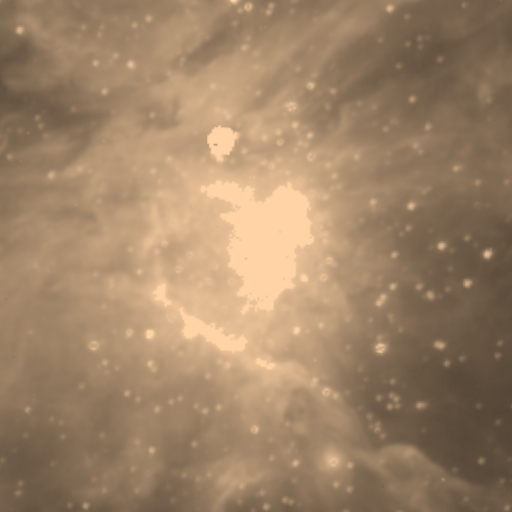
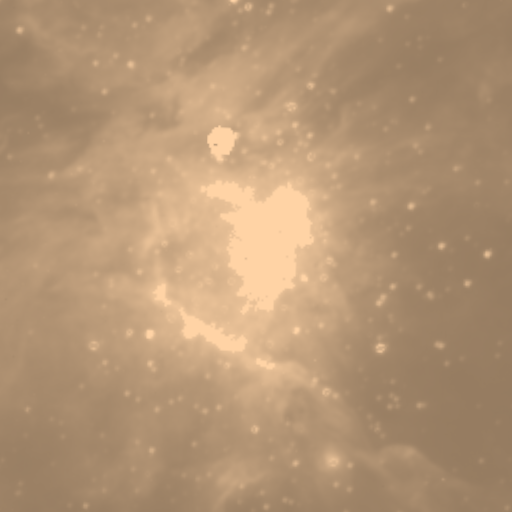
fix: fondo menos granulado (intervalo -2σ) y menú Exportar sin cortes

diff --git a/frontend/src/components/ReportPanel.jsx b/frontend/src/components/ReportPanel.jsx
@@ -234,7 +234,7 @@ function MenuExportar({ deshabilitado }) {
             animate={{ opacity: 1, y: 0, scale: 1 }}
             exit={{ opacity: 0, y: -4, scale: 0.96 }}
             transition={{ duration: 0.12 }}
-            className="absolute right-0 top-full z-20 mt-1.5 flex w-28 flex-col overflow-hidden rounded-lg border border-white/10 bg-space-900/95 py-1 shadow-xl backdrop-blur"
+            className="absolute right-0 top-full z-20 mt-1.5 flex w-32 flex-col overflow-hidden rounded-lg border border-white/10 bg-space-900/95 py-1 shadow-xl backdrop-blur"
           >
             {[
               ['csv', 'CSV (.csv)'],
@@ -245,7 +245,7 @@ function MenuExportar({ deshabilitado }) {
                 type="button"
                 role="menuitem"
                 onClick={() => descargar(formato)}
-                className="px-3 py-1.5 text-left font-mono text-xs text-slate-300 hover:bg-cyan-400/10 hover:text-cyan-100"
+                className="whitespace-nowrap px-3 py-1.5 text-left font-mono text-xs text-slate-300 hover:bg-cyan-400/10 hover:text-cyan-100"
               >
                 {etiqueta}
               </button>

diff --git a/scripts/fetch_irsa_samples.py b/scripts/fetch_irsa_samples.py
@@ -288,7 +288,7 @@ def procesar_region(rid, nombre, designacion, respaldo, presupuesto) -> dict:
         _, _, sigma = sigma_clipped_stats(np.concatenate([a.ravel(), b.ravel()]), sigma=3.0)
         vmax = np.percentile(np.concatenate([a.ravel(), b.ravel()]), 99.9)
         # Primero el intervalo lineal [vmin, vmax] -> [0, 1]; después y = log(a·x + 1) / log(a + 1).
-        norma = LogStretch(a=1000) + ManualInterval(vmin=-1.0 * sigma, vmax=vmax)
+        norma = LogStretch(a=1000) + ManualInterval(vmin=-2.0 * sigma, vmax=vmax)
         imagenes = {}
         for epoca, arr in (("A", a), ("B", b)):
             nombre_png = f"{rid}_{bid}_epoca{epoca}.png"

diff --git a/README.md b/README.md
@@ -117,7 +117,7 @@ Conversión FITS → PNG con `astropy`:
    arriba y este a la izquierda: así el mismo píxel es la misma posición del cielo en A y en B (los detectores
    de WISE estaban girados de forma distinta en cada pasada). El lado es el mayor cuadrado cubierto por los 4
    recortes de la región (0.19° en M42, 0.17° en M45).
-7. `astropy.visualization`: `ManualInterval(−1σ, percentil 99.9)` lleva el flujo a [0, 1] y
+7. `astropy.visualization`: `ManualInterval(−2σ, percentil 99.9)` lleva el flujo a [0, 1] y
    `LogStretch(a=1000)` aplica `y = log(1000·x + 1) / log(1001)`, que realza la nebulosa tenue sin quemar las
    estrellas. El mismo intervalo se usa en las dos épocas para que el parpadeo solo muestre cambios reales.
 8. Se multiplica por el color de la banda, se invierte el eje vertical (en FITS la fila 0 está abajo; en PNG,
